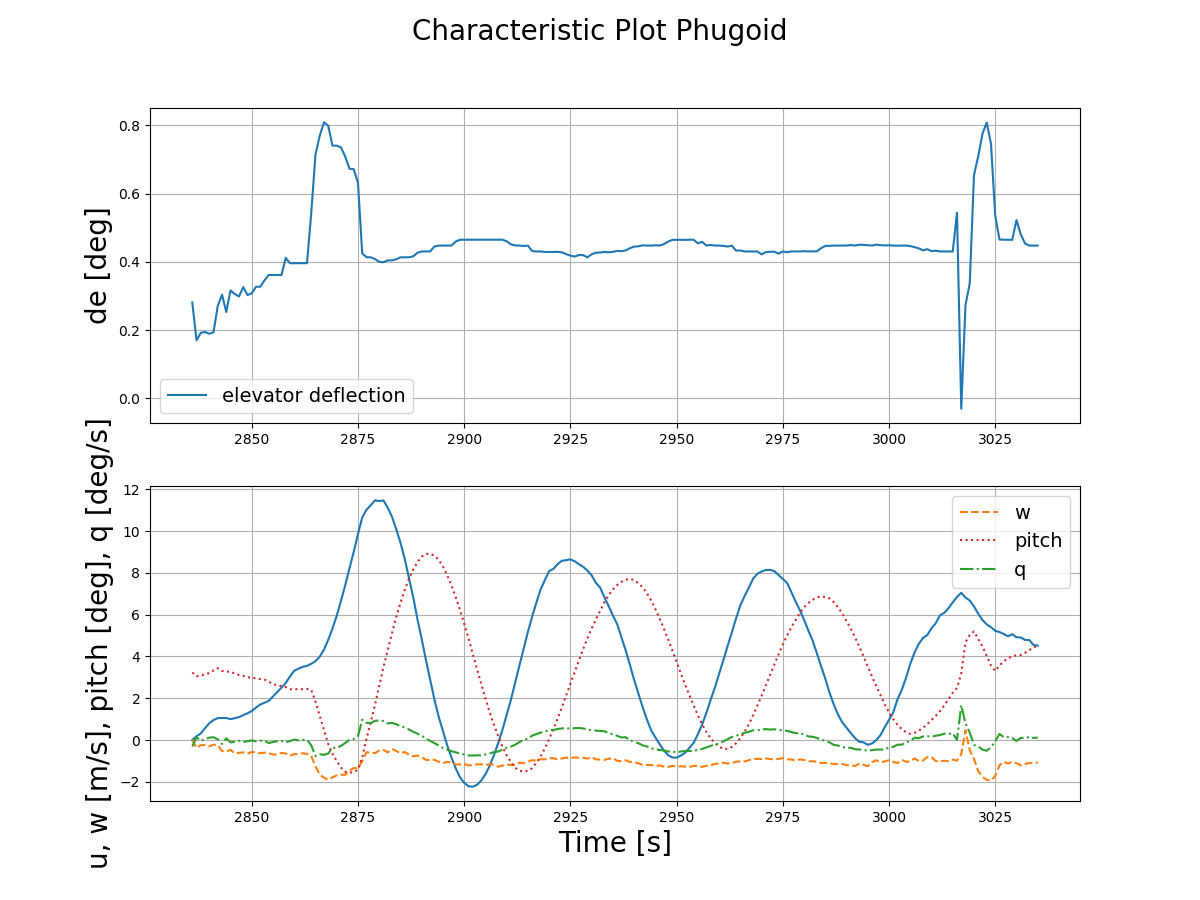
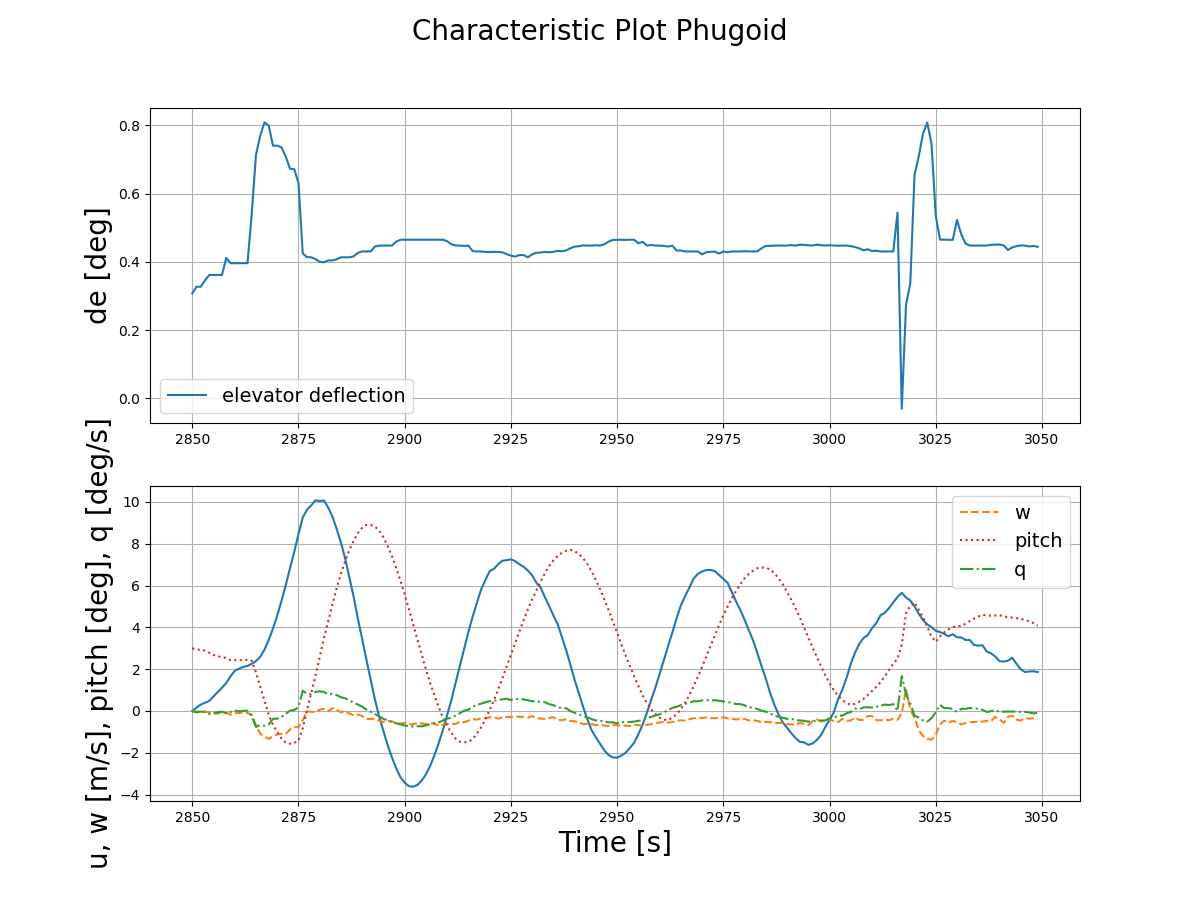
RefData Ignore

diff --git a/src/data_extraction/time_series_tool.py b/src/data_extraction/time_series_tool.py
@@ -4,7 +4,7 @@ from src.data_extraction.data_main import Data
 class TimeSeriesTool:
 
     def __init__(self):
-        self.data = Data(r'FlightData.mat', 'StatClCd.csv', 'StatElev.csv')
+        self.data = Data(r'RefData.mat', 'StatClCd.csv', 'StatElev.csv')
         self.mdat = self.data.get_mat().get_data()
         self.pdat = self.data.get_pfd()
 
